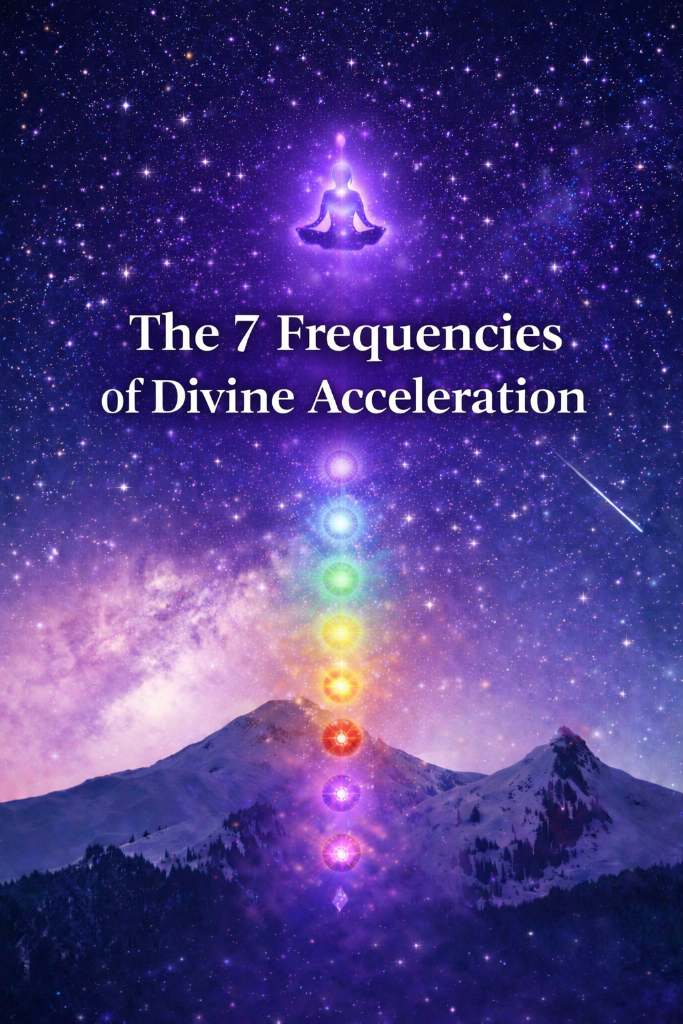
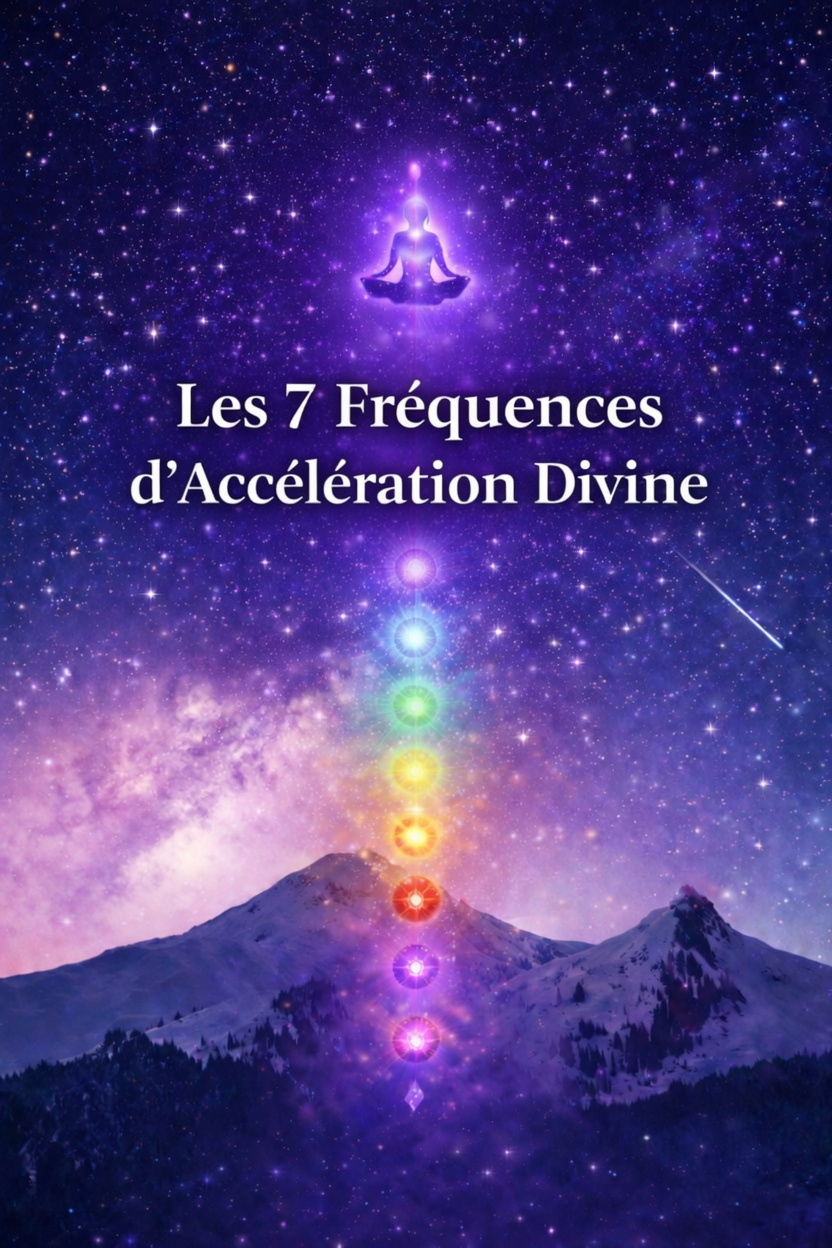
feat: tradução completa para francês + fix community.html + update imagens para png

Changed region(s): [[0.1537, 0.2812, 0.8609, 0.4062]]

diff --git a/index.html b/index.html
@@ -18,7 +18,7 @@
   <meta name="apple-mobile-web-app-title" content="L'Âge de l'Abondance">
   <link rel="apple-touch-icon" href="images/Copy of Whisk_566d7d5bf10336b9f184205567b5715eeg.png">
   <meta name="theme-color" content="#0d0d12">
-  <title>Abundance Time</title>
+  <title>Temps d'Abondance</title>
 
   <!-- Preload crítico para fontes aparecerem no mobile -->
   <link rel="preconnect" href="https://fonts.googleapis.com">
@@ -816,14 +816,14 @@
 <nav class="desktop-nav">
   <a href="#" class="nav-logo">
     <span style="font-size:1.3rem;">👑</span>
-    <span class="nav-logo-text">Abundance Time</span>
+    <span class="nav-logo-text">Temps d'Abondance</span>
   </a>
   <ul class="nav-links">
-    <li><a href="#" class="active">Home</a></li>
-    <li><a href="#my-products">My Products</a></li>
-    <li><a href="journey.html">Journey</a></li>
+    <li><a href="#" class="active">Accueil</a></li>
+    <li><a href="#my-products">Mes Produits</a></li>
+    <li><a href="journey.html">Voyage</a></li>
     <li><a href="journal.html">Journal</a></li>
-    <li><a href="support.html">Support</a></li>
+    <li><a href="support.html">Assistance</a></li>
   </ul>
   <div class="nav-right">
     <button class="nav-icon-btn">🔍</button>
@@ -837,7 +837,7 @@
 <div class="mobile-nav">
   <div style="display:flex;align-items:center;gap:8px;">
     <span style="font-size:1.2rem;">👑</span>
-    <span class="nav-logo-text" style="font-size:0.95rem;">Abundance Time</span>
+    <span class="nav-logo-text" style="font-size:0.95rem;">Temps d'Abondance</span>
   </div>
   <div class="mobile-nav-right">
     <button class="nav-icon-btn">🔍</button>
@@ -855,10 +855,10 @@
     <div class="hero-fade"></div>
     <div class="hero-content">
       <div class="hero-badges">
-        <span class="badge badge-green">✓ Available</span>
-        <span class="badge badge-orange">Featured</span>
+        <span class="badge badge-green">✓ Disponible</span>
+        <span class="badge badge-orange">En vedette</span>
       </div>
-      <h1 class="hero-title">The Age Of Abundance</h1>
+      <h1 class="hero-title">L'Ère de l'Abondance</h1>
       <p class="hero-desc">"All these blessings will come upon you and overtake you" — Deuteronomy 28:2</p>
       <div class="hero-meta">
         <span>🕐 4h</span>
@@ -867,8 +867,8 @@
         <span class="cat-tag">Mindset</span>
       </div>
       <div class="hero-btns">
-        <button class="btn btn-primary" onclick="navigateTo('player-age-of-abundance.html')">▶ Access Content</button>
-        <button class="btn btn-secondary" onclick="openModal(6,'my')">ⓘ More Info</button>
+        <button class="btn btn-primary" onclick="navigateTo('player-age-of-abundance.html')">▶ Accéder au Contenu</button>
+        <button class="btn btn-secondary" onclick="openModal(6,'my')">ⓘ Plus d'info</button>
       </div>
     </div>
   </div>
@@ -880,7 +880,7 @@
     <div class="hero-fade"></div>
     <div class="hero-content">
       <div class="hero-btns">
-        <a class="btn btn-primary" href="https://quizangel.vercel.app/" target="_blank" rel="noopener">✦ Discover Now</a>
+        <a class="btn btn-primary" href="https://quizangel.vercel.app/" target="_blank" rel="noopener">✦ Découvrir Maintenant</a>
       </div>
     </div>
   </div>
@@ -903,11 +903,11 @@
       <div style="display:flex;align-items:center;gap:14px;">
         <span style="font-size:24px;">📜</span>
         <div>
-          <div style="font-family:'Cinzel',serif;font-size:10px;letter-spacing:.16em;text-transform:uppercase;color:rgba(201,168,76,0.7);margin-bottom:3px;">Personalized</div>
-          <div style="font-family:'Cinzel',serif;font-size:15px;font-weight:700;color:#e8e0d0;">Access Your Divine Script</div>
+          <div style="font-family:'Cinzel',serif;font-size:10px;letter-spacing:.16em;text-transform:uppercase;color:rgba(201,168,76,0.7);margin-bottom:3px;">Personnalisé</div>
+          <div style="font-family:'Cinzel',serif;font-size:15px;font-weight:700;color:#e8e0d0;">Accéder à Votre Script Divin</div>
         </div>
       </div>
-      <div style="background:linear-gradient(135deg,#8a6020,#c9a84c);color:#0a0508;font-family:'Cinzel',serif;font-size:10px;letter-spacing:.14em;text-transform:uppercase;font-weight:700;border:none;border-radius:6px;padding:10px 18px;white-space:nowrap;flex-shrink:0;">Open →</div>
+      <div style="background:linear-gradient(135deg,#8a6020,#c9a84c);color:#0a0508;font-family:'Cinzel',serif;font-size:10px;letter-spacing:.14em;text-transform:uppercase;font-weight:700;border:none;border-radius:6px;padding:10px 18px;white-space:nowrap;flex-shrink:0;">Ouvrir →</div>
     </div>
   </a>
 </div>
@@ -919,7 +919,7 @@
   <!-- MY PRODUCTS -->
   <div id="my-products" class="row-section fade-section">
     <div class="row-header">
-      <h2 class="row-title">My Products</h2>
+      <h2 class="row-title">Mes Produits</h2>
       <div class="row-nav">
         <button class="row-nav-btn" onclick="scrollRow('my',-1)">‹</button>
         <button class="row-nav-btn" onclick="scrollRow('my',1)">›</button>
@@ -933,7 +933,7 @@
   <div class="row-section fade-section">
     <div class="row-header">
       <div>
-        <h2 class="row-title">Today's Practice</h2>
+        <h2 class="row-title">Pratique du Jour</h2>
         <p style="font-family:'Crimson Pro',Georgia,serif;font-size:0.88rem;color:var(--text-dim);margin-top:4px;" id="todays-date"></p>
       </div>
       <div class="row-nav">
@@ -951,8 +951,8 @@
   <div class="row-section fade-section">
     <div class="row-header">
       <div>
-        <h2 class="row-title">Expand Your Journey</h2>
-        <p style="font-family:'Crimson Pro',Georgia,serif;font-size:0.88rem;color:var(--text-dim);margin-top:4px;">Deepen your practice with these sacred teachings</p>
+        <h2 class="row-title">Élargissez Votre Parcours</h2>
+        <p style="font-family:'Crimson Pro',Georgia,serif;font-size:0.88rem;color:var(--text-dim);margin-top:4px;">Approfondissez votre pratique avec ces enseignements sacrés</p>
       </div>
       <div class="row-nav">
         <button class="row-nav-btn" onclick="scrollRow('expand',-1)">‹</button>
@@ -969,9 +969,9 @@
       <div style="background:linear-gradient(135deg,#0f1a12,#131f17);border:1px solid rgba(201,168,76,0.25);border-radius:12px;padding:24px 24px;display:flex;align-items:center;gap:18px;transition:border-color .2s;cursor:pointer;" onmouseover="this.style.borderColor='rgba(201,168,76,0.5)'" onmouseout="this.style.borderColor='rgba(201,168,76,0.25)'">
         <div style="width:50px;height:50px;border-radius:50%;background:linear-gradient(135deg,#7a5020,#c9a84c);display:flex;align-items:center;justify-content:center;font-size:22px;flex-shrink:0;">🌿</div>
         <div style="flex:1;">
-          <div style="font-family:'Cinzel',serif;font-size:10px;letter-spacing:.14em;text-transform:uppercase;color:#c9a84c;opacity:.7;margin-bottom:4px;">Daily Alignment</div>
-          <div style="font-family:'Cinzel',serif;font-size:16px;font-weight:700;color:#e8e0d0;margin-bottom:4px;">Abundance Circle</div>
-          <div style="font-size:13px;color:#8a8070;font-family:'Crimson Pro',Georgia,serif;">Receive your daily prayer of alignment →</div>
+          <div style="font-family:'Cinzel',serif;font-size:10px;letter-spacing:.14em;text-transform:uppercase;color:#c9a84c;opacity:.7;margin-bottom:4px;">Alignement Quotidien</div>
+          <div style="font-family:'Cinzel',serif;font-size:16px;font-weight:700;color:#e8e0d0;margin-bottom:4px;">Cercle d'Abondance</div>
+          <div style="font-size:13px;color:#8a8070;font-family:'Crimson Pro',Georgia,serif;">Recevez votre prière quotidienne d'alignement →</div>
         </div>
         <div style="font-size:22px;color:rgba(201,168,76,0.4);">›</div>
       </div>
@@ -984,19 +984,19 @@
   <div class="bottom-nav-inner">
     <a href="#" class="bottom-nav-item active">
       <span class="nav-icon">🏠</span>
-      <span>Home</span>
+      <span>Accueil</span>
     </a>
     <a href="journey.html" class="bottom-nav-item" onclick="event.preventDefault();navigateTo('journey.html')">
       <span class="nav-icon">✨</span>
-      <span>Journey</span>
+      <span>Voyage</span>
     </a>
     <a href="community.html" class="bottom-nav-item" onclick="event.preventDefault();navigateTo('community.html')">
       <span class="nav-icon">👥</span>
-      <span>Community</span>
+      <span>Communauté</span>
     </a>
     <a href="support.html" class="bottom-nav-item">
       <span class="nav-icon">💬</span>
-      <span>Support</span>
+      <span>Assistance</span>
     </a>
   </div>
 </nav>
@@ -1014,8 +1014,8 @@
     </div>
     <p id="m-desc"></p>
     <div class="modal-actions">
-      <button class="btn btn-primary" onclick="closeModal()">▶ Access Content</button>
-      <button class="btn btn-secondary" onclick="closeModal()">Close</button>
+      <button class="btn btn-primary" onclick="closeModal()">▶ Accéder au Contenu</button>
+      <button class="btn btn-secondary" onclick="closeModal()">Fermer</button>
     </div>
   </div>
 </div>
@@ -1026,29 +1026,29 @@
 <script>
 const DATA = {
   my:[
-    {title:"Powerful Prayers to Archangel Michael",desc:"Connect with divine protection and spiritual strength through powerful prayers to the Archangel.",cat:"Spirituality",catClass:"cat-spirituality",rating:"4.9",count:"847",dur:"3h",img:"images/prayersmichael.jpg",available:true,player:"player.html"},
-    {title:"The Sacred Chant of Archangel Michael",desc:"A transformative journey into divine protection and spiritual purification. Unlock the power of angelic frequencies.",cat:"Spirituality",catClass:"cat-spirituality",rating:"4.9",count:"847",dur:"3h",img:"images/sacredprotocol.png",available:true,featured:true,player:"player-sacred-chant.html"},
-    {title:"The 7 Frequencies of Divine Acceleration",desc:"Discover and activate the seven sacred frequencies that advance your divine path.",cat:"Spirituality",catClass:"cat-spirituality",rating:"4.8",count:"723",dur:"2h",img:"images/7frequencies.png",available:true,player:"player-7frequencies.html"},
-    {title:"The Hidden Secrets of King Solomon's Prosperity",desc:"Unlock the ancient wisdom of King Solomon and discover the sacred principles of wealth.",cat:"Spirituality",catClass:"cat-spirituality",rating:"5.0",count:"891",dur:"4h",img:"images/solomon.jpg",available:true,player:"player-solomon.html"},
-    {title:"The Secret Of Power",desc:"Unlock your inner strength and discover the keys to personal power and transformation.",cat:"Mindset",catClass:"cat-mindset",rating:"4.8",count:"756",dur:"2h",img:"images/TheKeyOfPower.jpg",available:true,player:"player-secret-of-power.html"},
-    {title:"Powerful Numbers — Divine Frequency",desc:"Explore the sacred geometry of numbers and their divine frequencies for manifestation.",cat:"Premium",catClass:"cat-premium",rating:"4.9",count:"812",dur:"3h",img:"images/powerfulnumbers.png",available:true,player:"player-powerful-numbers.html"},
-    {title:"The Age Of Abundance",desc:"Biblical principles for attracting divine abundance into every area of your life.",cat:"Mindset",catClass:"cat-mindset",rating:"5.0",count:"1024",dur:"4h",img:"images/theageofabundance.jpeg",available:true,featured:true,player:"player-age-of-abundance.html"},
-    {title:"Mindset Reset Formula",desc:"Update your mental software and unlock automatic growth, abundance and confidence.",cat:"Mindset",catClass:"cat-mindset",rating:"4.8",count:"620",dur:"2h",img:"images/mindsetreset.png",available:true,player:"player-mindset-reset.html"},
-    {title:"Dream Life Journal",desc:"A guided journal to help you design, declare and attract the life God has prepared for you.",cat:"Mindset",catClass:"cat-mindset",rating:"5.0",count:"430",dur:"",img:"images/dreamjournal.png",available:true,player:"player-dream-journal.html"},
+    {title:"Prières Puissantes à l'Archange Michel",desc:"Connectez-vous à la protection divine et à la force spirituelle par des prières puissantes à l'Archange.",cat:"Spiritualité",catClass:"cat-spirituality",rating:"4.9",count:"847",dur:"3h",img:"images/prayersmichael.png",available:true,player:"player.html"},
+    {title:"Le Chant Sacré de l'Archange Michel",desc:"Un voyage transformateur vers la protection divine et la purification spirituelle. Déverrouillez le pouvoir des fréquences angéliques.",cat:"Spiritualité",catClass:"cat-spirituality",rating:"4.9",count:"847",dur:"3h",img:"images/sacredprotocol.png",available:true,featured:true,player:"player-sacred-chant.html"},
+    {title:"Les 7 Fréquences de l'Accélération Divine",desc:"Découvrez et activez les sept fréquences sacrées qui font avancer votre chemin divin.",cat:"Spiritualité",catClass:"cat-spirituality",rating:"4.8",count:"723",dur:"2h",img:"images/7frequencies.png",available:true,player:"player-7frequencies.html"},
+    {title:"Les Secrets Cachés de la Prospérité du Roi Salomon",desc:"Déverrouillez la sagesse ancienne du Roi Salomon et découvrez les principes sacrés de la richesse.",cat:"Spiritualité",catClass:"cat-spirituality",rating:"5.0",count:"891",dur:"4h",img:"images/solomon.png",available:true,player:"player-solomon.html"},
+    {title:"Le Secret de Puissance",desc:"Déverrouillez votre force intérieure et découvrez les clés du pouvoir personnel et de la transformation.",cat:"Esprit",catClass:"cat-mindset",rating:"4.8",count:"756",dur:"2h",img:"images/TheKeyOfPower.jpg",available:true,player:"player-secret-of-power.html"},
+    {title:"Nombres Puissants — Fréquence Divine",desc:"Explorez la géométrie sacrée des nombres et leurs fréquences divines pour la manifestation.",cat:"Premium",catClass:"cat-premium",rating:"4.9",count:"812",dur:"3h",img:"images/powerfulnumbers.png",available:true,player:"player-powerful-numbers.html"},
+    {title:"L'Ère de l'Abondance",desc:"Principes bibliques pour attirer l'abondance divine dans chaque domaine de votre vie.",cat:"Esprit",catClass:"cat-mindset",rating:"5.0",count:"1024",dur:"4h",img:"images/theageofabundance.jpeg",available:true,featured:true,player:"player-age-of-abundance.html"},
+    {title:"Formule de Réinitialisation de l'État d'Esprit",desc:"Mettez à jour votre logiciel mental et déverrouillez la croissance automatique, l'abondance et la confiance.",cat:"Esprit",catClass:"cat-mindset",rating:"4.8",count:"620",dur:"2h",img:"images/mindsetreset.png",available:true,player:"player-mindset-reset.html"},
+    {title:"Journal de la Vie de Rêve",desc:"Un journal guidé pour vous aider à concevoir, déclarer et attirer la vie que Dieu a préparée pour vous.",cat:"Esprit",catClass:"cat-mindset",rating:"5.0",count:"430",dur:"",img:"images/dreamjournal.png",available:true,player:"player-dream-journal.html"},
   ],
 };
 
 const EXPAND_DATA = [
-  {title:"Vision Board Academy",desc:"Learn to create powerful vision boards that accelerate your manifestation journey and align your desires with divine purpose.",cat:"Mindset",catClass:"cat-mindset",rating:"5.0",count:"312",dur:"1h",img:"images/visionboard.png",player:"player-vision-board.html"},
-  {title:"The Whisper of Faith",desc:"Unlock Divine Blessings and Abundance through sacred practices and ancient wisdom.",cat:"Mindset",catClass:"cat-mindset",rating:"5.0",count:"891",dur:"4h",img:"images/whisperfaith.png",player:"player-whisper-faith.html"},
-  {title:"21-Day Manifestation Challenge",desc:"Your life will be transformed in 21 days through focused divine intention and daily practice.",cat:"Mindset",catClass:"cat-mindset",rating:"5.0",count:"745",dur:"21d",img:"images/21daymanifestation.png",player:"player-21-days.html"},
+  {title:"Académie du Tableau de Vision",desc:"Apprenez à créer des tableaux de vision puissants qui accélèrent votre voyage de manifestation et alignent vos désirs avec un but divin.",cat:"Esprit",catClass:"cat-mindset",rating:"5.0",count:"312",dur:"1h",img:"images/visionboard.png",player:"player-vision-board.html"},
+  {title:"Le Murmure de Foi",desc:"Déverrouillez les bénédictions divines et l'abondance par des pratiques sacrées et la sagesse ancienne.",cat:"Esprit",catClass:"cat-mindset",rating:"5.0",count:"891",dur:"4h",img:"images/whisperfaith.png",player:"player-whisper-faith.html"},
+  {title:"Défi de Manifestation de 21 Jours",desc:"Votre vie sera transformée en 21 jours par une intention divine focalisée et une pratique quotidienne.",cat:"Esprit",catClass:"cat-mindset",rating:"5.0",count:"745",dur:"21d",img:"images/21daymanifestation.png",player:"player-21-days.html"},
 ];
 
 const DAILY_FOCUS_DATA = [
-  {0:{theme:'Rest & Surrender',title:'Total Surrender'},1:{theme:'Prosperity',title:'Identify Open Doors'},2:{theme:'Mindset',title:'Government of Speech'},3:{theme:'Connection',title:'Selective Silence'},4:{theme:'Abundance',title:'Flow Consciousness'},5:{theme:'Protection',title:'Preserving Your Peace'},6:{theme:'Vision',title:'Royal Posture'}},
-  {0:{theme:'Rest & Renewal',title:"The Mind's Sabbath"},1:{theme:'Prosperity',title:'Seed Mentality'},2:{theme:'Mindset',title:'Emotional Sovereignty'},3:{theme:'Connection',title:'Spiritual Discernment'},4:{theme:'Abundance',title:'Gratitude Anchor'},5:{theme:'Protection',title:'Noise Fast'},6:{theme:'Vision',title:'Legacy Thinking'}},
-  {0:{theme:'Rest & Faith',title:'Faith in the Invisible'},1:{theme:'Prosperity',title:'Sacred Boldness'},2:{theme:'Mindset',title:'Destroying the Impostor'},3:{theme:'Connection',title:'Synchronization'},4:{theme:'Abundance',title:'Capacity to Receive'},5:{theme:'Protection',title:'Boundaries of Light'},6:{theme:'Vision',title:'Writing the Future'}},
-  {0:{theme:'Rest & Celebration',title:'Celebrating the Creator'},1:{theme:'Prosperity',title:'Financial Stewardship'},2:{theme:'Mindset',title:'Divine Resilience'},3:{theme:'Connection',title:'Intuitive Action'},4:{theme:'Abundance',title:'Living in Overflow'},5:{theme:'Protection',title:'Armor of Light'},6:{theme:'Vision',title:'The Finished Work'}},
+  {0:{theme:'Repos & Abandon',title:'Abandon Total'},1:{theme:'Prospérité',title:'Identifier les Portes Ouvertes'},2:{theme:'Esprit',title:'Gouvernement de la Parole'},3:{theme:'Connexion',title:'Silence Sélectif'},4:{theme:'Abondance',title:'Conscience du Flux'},5:{theme:'Protection',title:'Préserver Votre Paix'},6:{theme:'Vision',title:'Posture Royale'}},
+  {0:{theme:'Repos & Renouveau',title:'Le Sabbat de l\'Esprit'},1:{theme:'Prospérité',title:'Mentalité de Semence'},2:{theme:'Esprit',title:'Souveraineté Émotionnelle'},3:{theme:'Connexion',title:'Discernement Spirituel'},4:{theme:'Abondance',title:'Ancre de Gratitude'},5:{theme:'Protection',title:'Jeûne du Bruit'},6:{theme:'Vision',title:'Pensée de Legs'}},
+  {0:{theme:'Repos & Foi',title:'Foi dans l\'Invisible'},1:{theme:'Prospérité',title:'Audace Sacrée'},2:{theme:'Esprit',title:'Détruire l\'Imposteur'},3:{theme:'Connexion',title:'Synchronisation'},4:{theme:'Abondance',title:'Capacité à Recevoir'},5:{theme:'Protection',title:'Frontières de Lumière'},6:{theme:'Vision',title:'Écrire le Futur'}},
+  {0:{theme:'Repos & Célébration',title:'Célébrer le Créateur'},1:{theme:'Prospérité',title:'Gestion Financière'},2:{theme:'Esprit',title:'Résilience Divine'},3:{theme:'Connexion',title:'Action Intuitive'},4:{theme:'Abondance',title:'Vivre dans le Débordement'},5:{theme:'Protection',title:'Armure de Lumière'},6:{theme:'Vision',title:'L\'Œuvre Accomplie'}},
 ];
 
 function _localDateStr(){const d=new Date();return d.getFullYear()+'-'+String(d.getMonth()+1).padStart(2,'0')+'-'+String(d.getDate()).padStart(2,'0');}
@@ -1071,17 +1071,17 @@ function isDone(key){ return localStorage.getItem(key) === todayStr; }
 function allDone(){ return DONE_KEYS.every(k => isDone(k)); }
 
 const PRACTICE_BANK = [
-  {type:'Daily Focus',      title:'Daily Focus',      desc:'Your divine assignment for today. Set your intention and align with Heaven\'s frequency.',     catLabel:todayFocus.theme, catClass:'cat-premium',      img:'images/bussola.jpeg', player:'player-daily-focus.html',    doneKey:'daily_focus_done',    emoji:'🎯', accentColor:'#c9a84c'},
-  {type:'Divine Truth',     title:'Divine Truth',     desc:'A living word for this exact moment in your journey. Open your heart and receive.',             catLabel:'Scripture',       catClass:'cat-mindset',      img:'images/divinetruth.jpeg', player:'player-divine-truth.html',   doneKey:'divine_truth_done',   emoji:'✝', accentColor:'#3a85c4'},
-  {type:"Solomon's Wisdom", title:"Solomon's Wisdom", desc:'Ancient wisdom for your modern challenges. What Solomon knew that changed everything.',         catLabel:'Wisdom',          catClass:'cat-premium',      img:'images/solomonwisdomcert.jpeg',  player:'player-solomons-wisdom.html',doneKey:'solomons_wisdom_done',emoji:'👑', accentColor:'#3a9e6e'},
-  {type:'Daily Decree',     title:'Daily Decree',     desc:'Your daily declaration of power. Speak this aloud with conviction and open hands.',              catLabel:'Decree',          catClass:'cat-spirituality', img:'images/dailydecree.jpeg', player:'player-daily-decree.html',   doneKey:'daily_decree_done',   emoji:'📜', accentColor:'#9a2a3e'},
+  {type:'Focus Quotidien',      title:'Focus Quotidien',      desc:'Votre mission divine pour aujourd\'hui. Fixez votre intention et alignez-vous avec la fréquence du Ciel.',     catLabel:todayFocus.theme, catClass:'cat-premium',      img:'images/bussola.png', player:'player-daily-focus.html',    doneKey:'daily_focus_done',    emoji:'🎯', accentColor:'#c9a84c'},
+  {type:'Vérité Divine',     title:'Vérité Divine',     desc:'Une parole vivante pour ce moment précis de votre parcours. Ouvrez votre cœur et recevez.',             catLabel:'Écriture',       catClass:'cat-mindset',      img:'images/divinetruth.png', player:'player-divine-truth.html',   doneKey:'divine_truth_done',   emoji:'✝', accentColor:'#3a85c4'},
+  {type:'Sagesse de Salomon', title:'Sagesse de Salomon', desc:'Sagesse ancienne pour vos défis modernes. Ce que Salomon savait qui a tout changé.',         catLabel:'Sagesse',          catClass:'cat-premium',      img:'images/solomonwisdomcert.png',  player:'player-solomons-wisdom.html',doneKey:'solomons_wisdom_done',emoji:'👑', accentColor:'#3a9e6e'},
+  {type:'Décret Quotidien',     title:'Décret Quotidien',     desc:'Votre déclaration quotidienne de puissance. Parlez-le à voix haute avec conviction et mains ouvertes.',              catLabel:'Décret',          catClass:'cat-spirituality', img:'images/dailydecree.png', player:'player-daily-decree.html',   doneKey:'daily_decree_done',   emoji:'📜', accentColor:'#9a2a3e'},
 ];
 
 const rowPos = {my:0, expand:0};
 
 // Set today's date
 const dateEl = document.getElementById('todays-date');
-if(dateEl){ const d=new Date(); dateEl.textContent=d.toLocaleDateString('en-US',{weekday:'long',month:'long',day:'numeric'}); }
+if(dateEl){ const d=new Date(); dateEl.textContent=d.toLocaleDateString('fr-FR',{weekday:'long',month:'long',day:'numeric'}); }
 
 // Render Today's Practice cards
 const practiceTrack = document.getElementById('track-practice');
@@ -1102,9 +1102,9 @@ if(practiceTrack){
       banner.innerHTML = `
         <div class="pcb-inner">
           <div class="pcb-stars">✦ ✦ ✦</div>
-          <div class="pcb-title">Today's Practice Complete</div>
-          <div class="pcb-text">You have walked in alignment today. Your connection with God has been renewed. Heaven has registered your faithfulness.</div>
-          <div class="pcb-verse">"Well done, good and faithful servant." — Matthew 25:23</div>
+          <div class="pcb-title">Pratique du Jour Complète</div>
+          <div class="pcb-text">Vous avez marché dans l'alignement aujourd'hui. Votre connexion avec Dieu a été renouvelée. Le Ciel a enregistré votre fidélité.</div>
+          <div class="pcb-verse">« Bien, bon et fidèle serviteur. » — Matthieu 25:23</div>
         </div>`;
       practiceSection.querySelector('.row-header').after(banner);
     } else {
@@ -1115,8 +1115,8 @@ if(practiceTrack){
         banner.innerHTML = `
           <div class="ppb-inner">
             <div class="ppb-icon">🙏</div>
-            <div class="ppb-title">Your daily practices are waiting</div>
-            <div class="ppb-text">Take 2 minutes to deepen your connection with God today and carry His presence into every moment that follows.</div>
+            <div class="ppb-title">Vos pratiques quotidiennes vous attendent</div>
+            <div class="ppb-text">Prenez 2 minutes pour approfondir votre connexion avec Dieu aujourd'hui et portez Sa présence dans chaque moment qui suit.</div>
           </div>`;
         practiceSection.querySelector('.row-header').after(banner);
       }
@@ -1135,11 +1135,11 @@ if(practiceTrack){
         ${d
           ? `<div class="practice-done-overlay" style="background:linear-gradient(135deg,${p.accentColor}dd,${p.accentColor}99);">
                <div class="pdo-check">✓</div>
-               <div class="pdo-text">Done Today</div>
+               <div class="pdo-text">Fait Aujourd'hui</div>
              </div>`
           : `<div class="practice-pending-bar">
                <span class="ppb-dot"></span>
-               <span class="ppb-text">Not done yet</span>
+               <span class="ppb-text">Pas encore fait</span>
              </div>`
         }
       </div>
@@ -1149,7 +1149,7 @@ if(practiceTrack){
         <div class="card-desc">${p.desc}</div>
         <div class="card-actions">
           <button class="card-btn ${d ? 'card-btn-done' : 'card-btn-access'}" onclick="event.stopPropagation();navigateTo('${p.player}')">
-            ${d ? '✓ Completed' : '▶ Begin'}
+            ${d ? '✓ Terminé' : '▶ Commencer'}
           </button>
         </div>
       </div>
@@ -1167,8 +1167,8 @@ function cardHTML(p,key,i){
     <div class="card-img-wrap">
       <img src="${p.img}" alt="${p.title}" loading="lazy"/>
       <div class="card-badges">
-        ${p.available?'<span class="badge badge-green" style="font-size:0.68rem;padding:3px 9px;">✓ Available</span>':''}
-        ${p.featured?'<span class="badge badge-orange" style="font-size:0.68rem;padding:3px 9px;">Featured</span>':''}
+        ${p.available?'<span class="badge badge-green" style="font-size:0.68rem;padding:3px 9px;">✓ Disponible</span>':''}
+        ${p.featured?'<span class="badge badge-orange" style="font-size:0.68rem;padding:3px 9px;">En vedette</span>':''}
       </div>
       <button class="card-fav" id="${fid}" onclick="toggleFav('${fid}')">♡</button>
     </div>
@@ -1182,8 +1182,8 @@ function cardHTML(p,key,i){
         <span>🕐 ${p.dur}</span>
       </div>
       <div class="card-actions">
-        <button class="card-btn card-btn-access" onclick="${accessAction}">▶ Access</button>
-        <button class="card-btn card-btn-details" onclick="openModal(${i},'my')">⊙ View Details</button>
+        <button class="card-btn card-btn-access" onclick="${accessAction}">▶ Accéder</button>
+        <button class="card-btn card-btn-details" onclick="openModal(${i},'my')">⊙ Voir les Détails</button>
       </div>
     </div>
   </div>`;
@@ -1219,7 +1219,7 @@ function expandCardHTML(p,i){
         <span>🕐 ${p.dur}</span>
       </div>
       ${hasPlayer
-        ? `<button class="card-btn card-btn-access" onclick="event.stopPropagation();navigateTo('${p.player}')">▶ Access</button>`
+        ? `<button class="card-btn card-btn-access" onclick="event.stopPropagation();navigateTo('${p.player}')">▶ Accéder</button>`
         : `<button class="btn-unlock">✨ Coming Soon</button>`}
     </div>
   </div>`;
@@ -1243,7 +1243,7 @@ const guardianAngelCard = `<div class="product-card" onclick="window.open('https
     </div>
     <div class="card-actions">
       <a class="card-btn card-btn-access" href="https://quizangel.vercel.app/" target="_blank" rel="noopener" onclick="event.stopPropagation()">▶ Access</a>
-      <button class="card-btn card-btn-details" onclick="event.stopPropagation();openGuardianAngelModal()">⊙ View Details</button>
+      <button class="card-btn card-btn-details" onclick="event.stopPropagation();openGuardianAngelModal()">⊙ Voir les Détails</button>
     </div>
   </div>
 </div>`;

diff --git a/community.html b/community.html
@@ -606,7 +606,7 @@
 
       const replyHTML = '<div class="reply-box">' +
           '<input class="amen-input" id="amenInput-' + dateStr + '" type="text" placeholder="Partagez votre amen..." maxlength="200"/>' +
-          '<button class="amen-send" onclick="sendAmen(\'' + dateStr + '\')">Send</button>' +
+          '<button class="amen-send" onclick="sendAmen(\'' + dateStr + '\')">Envoyer</button>' +
         '</div>';
 
       return '<div class="date-div"><span>' + dow + ', ' + mon + ' ' + day + '</span></div>' +
@@ -635,7 +635,7 @@
     function renderAll() {
       const todayStr = _localDateStr();
       const dates    = getAvailableDates();
-      const membres  = 2847 + dates.length * 17;
+      const members  = 2847 + dates.length * 17;
 
       document.getElementById('memberCount').textContent  = fmt(members) + ' membres';
       document.getElementById('onboardCount').textContent = fmt(members) + ' membres · Prières quotidiennes';
